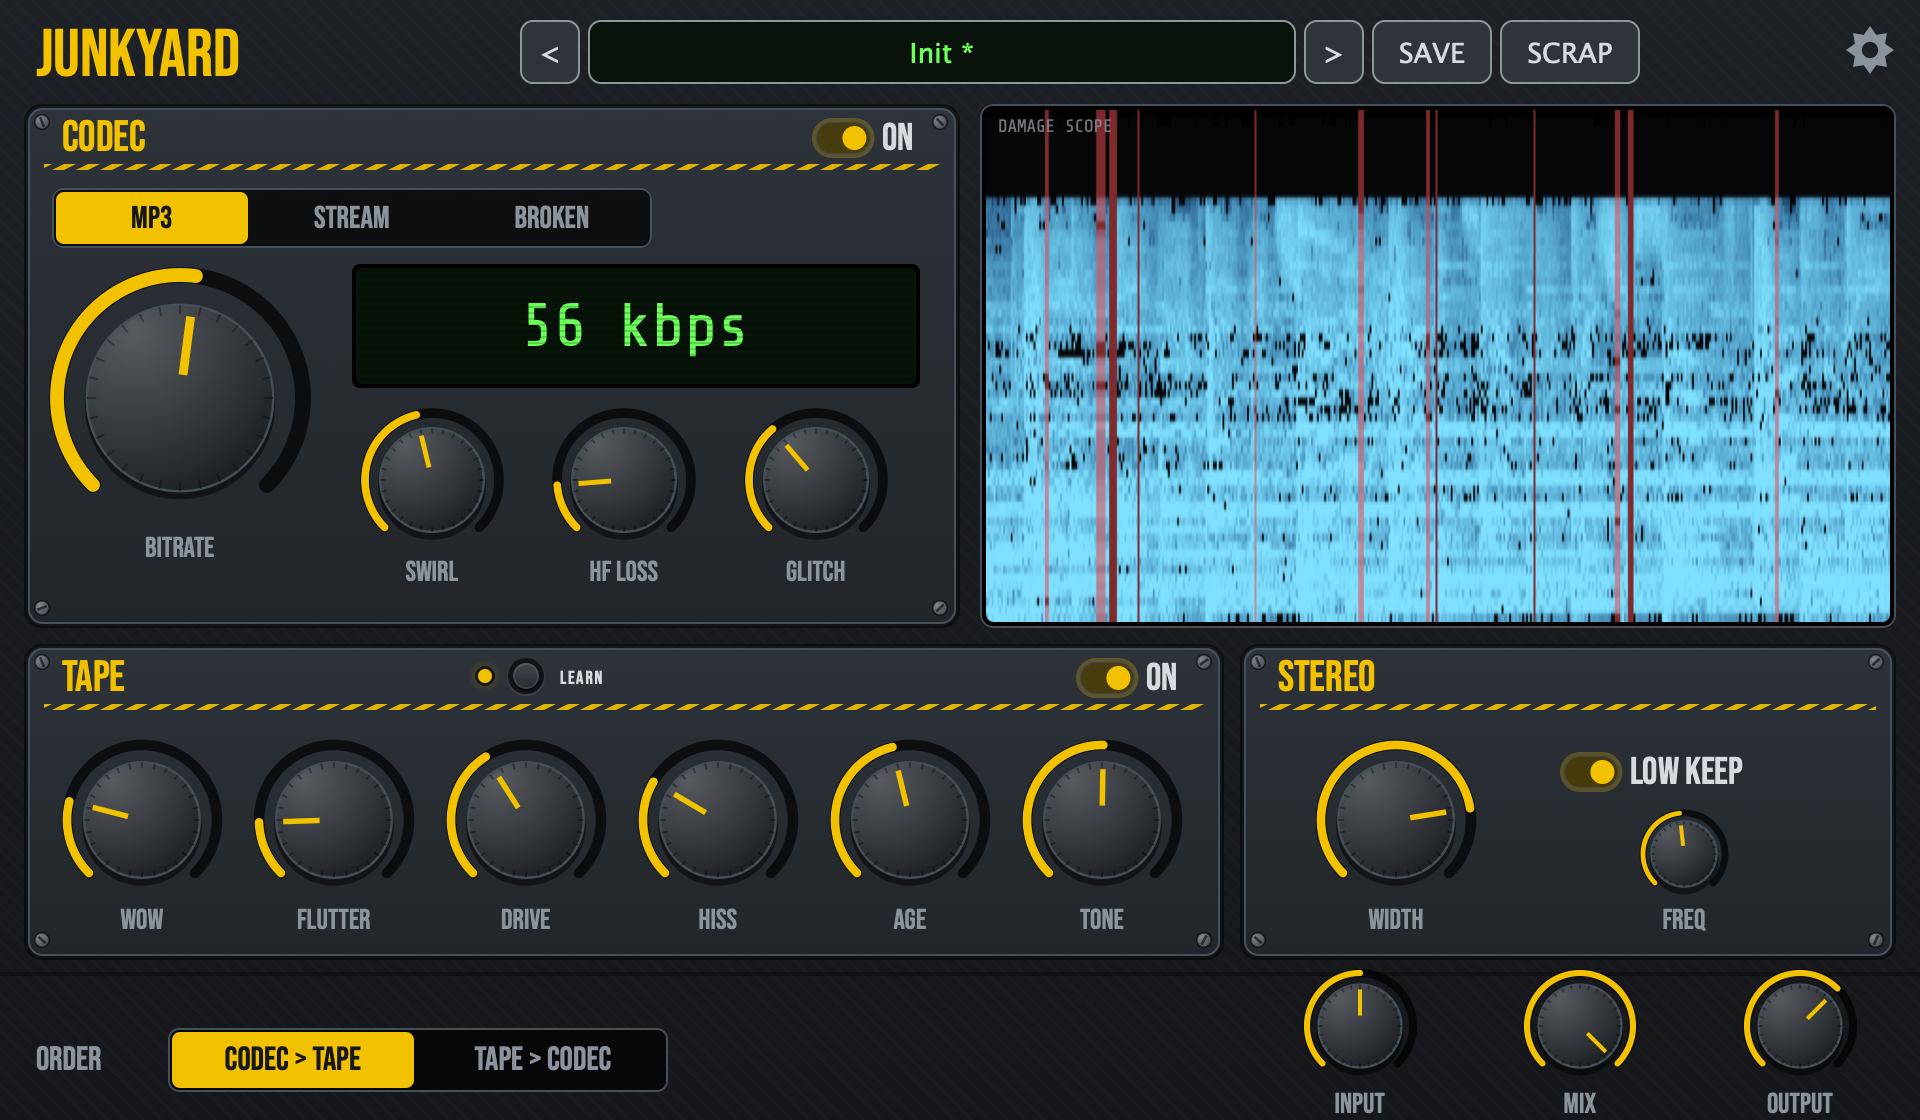
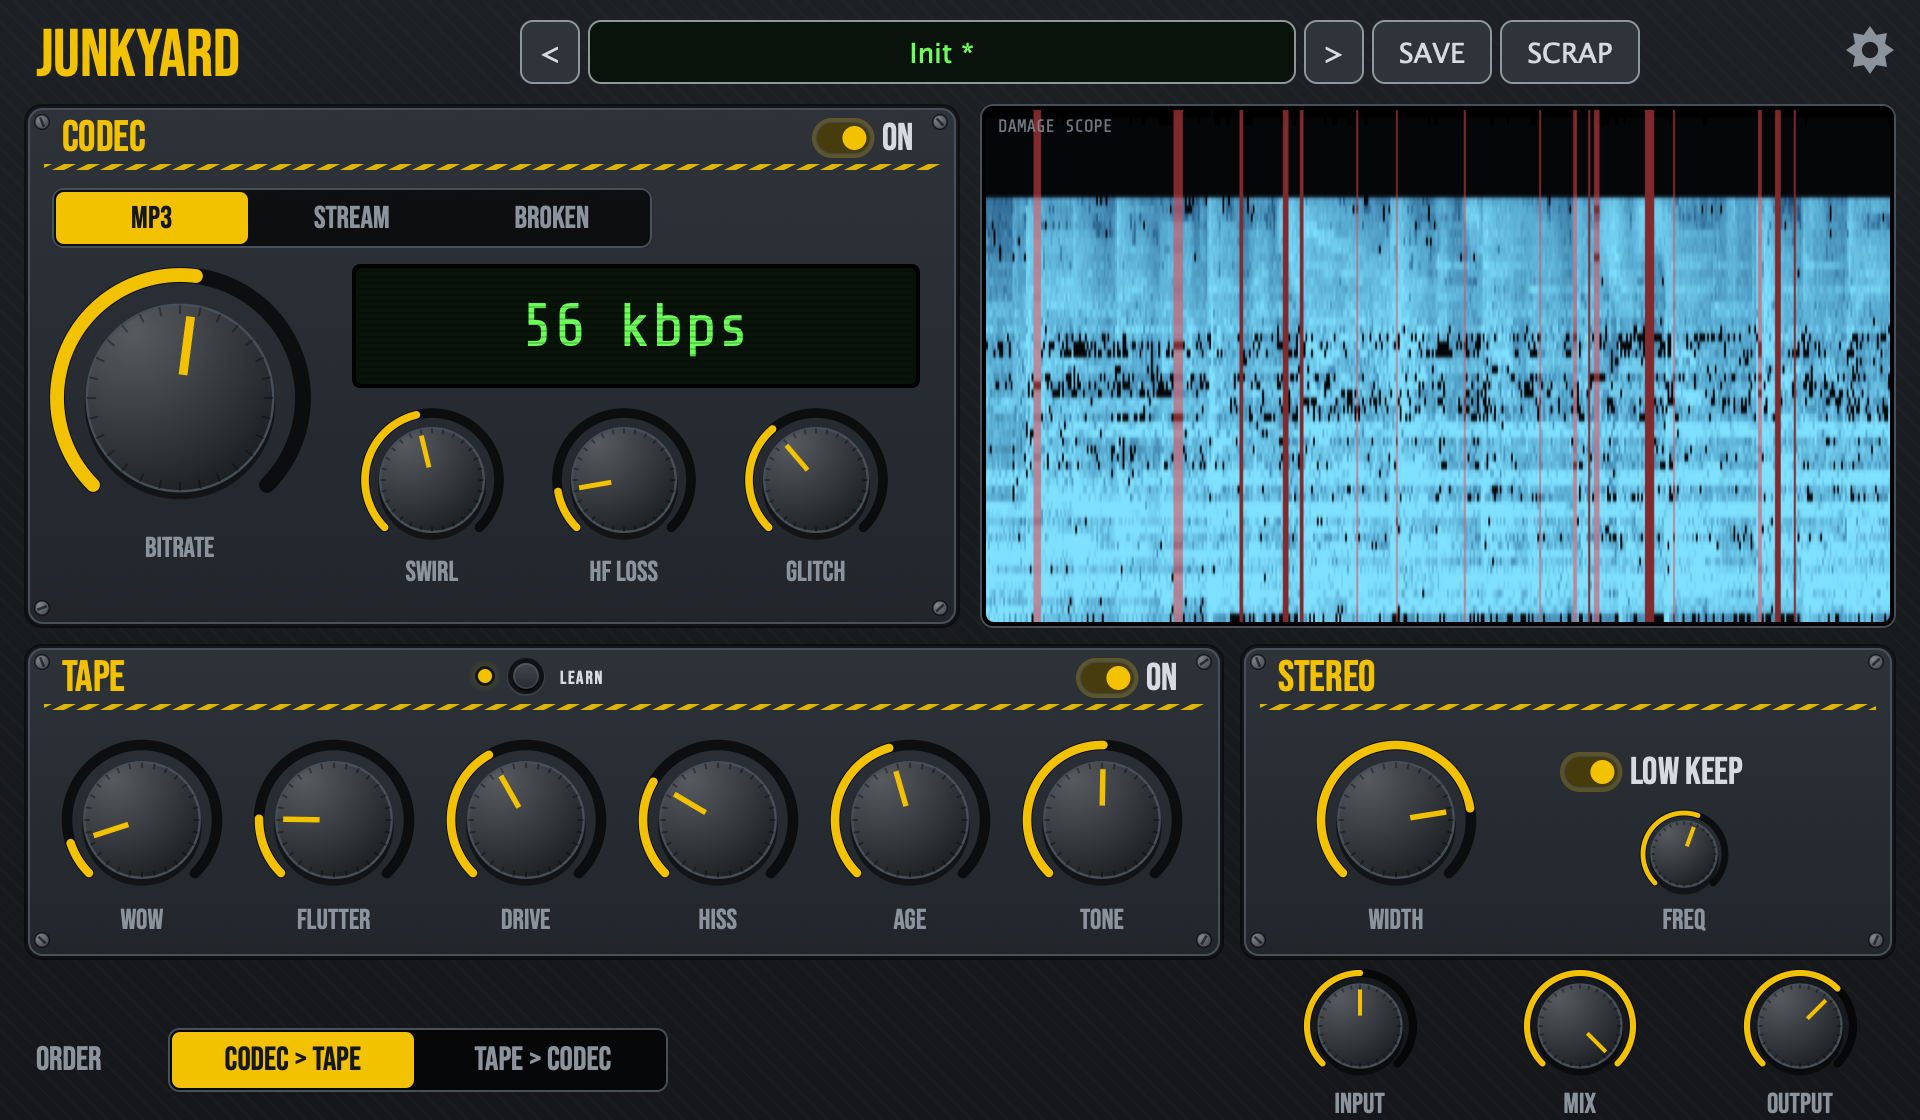
Remove divider line; tidy landing page; new screenshot

diff --git a/docs/index.html b/docs/index.html
@@ -36,10 +36,11 @@
     font-weight: 400; letter-spacing: 2px; line-height: 0.9; margin: 0;
   }
   .tag { font-size: clamp(16px, 2.6vw, 21px); color: var(--text); margin: 18px auto 40px; max-width: 640px; line-height: 1.5; }
-  .buttons { display: flex; gap: 20px; justify-content: center; flex-wrap: wrap; }
+  /* Two equal columns sized to the wider button, so both buttons match. */
+  .buttons { display: inline-grid; grid-template-columns: 1fr 1fr; gap: 20px; }
   .btn {
     display: flex; flex-direction: column; align-items: center; justify-content: center;
-    min-width: 300px; padding: 26px 40px;
+    padding: 26px 40px;
     border-radius: 14px; text-decoration: none;
     font-family: "Bebas Neue", Impact, sans-serif; font-size: 44px; letter-spacing: 1.5px; line-height: 1;
     background: var(--hazard); color: #141414;
@@ -52,7 +53,6 @@
   .btn:active { transform: translateY(8px); box-shadow: 0 0 0 #9c7108, 0 4px 12px rgba(0,0,0,0.45); }
   .btn.other { background: transparent; color: var(--hazard); box-shadow: 0 8px 0 #3a2c08, 0 14px 30px rgba(0,0,0,0.35); }
   .btn.other:hover { box-shadow: 0 6px 0 #3a2c08, 0 10px 24px rgba(0,0,0,0.35); }
-  .reqs { color: var(--dim); font-size: 15px; margin: 26px 0 0; line-height: 1.7; }
   .shot {
     display: block; width: 100%; max-width: 960px; height: auto; margin: 56px auto 0;
     border-radius: 12px; border: 1px solid var(--edge); box-shadow: 0 24px 60px rgba(0,0,0,0.55);
@@ -64,11 +64,11 @@
   .card { background: var(--panel); border: 1px solid var(--edge); border-radius: 12px; padding: 20px 22px; }
   .card h2 { font-family: "Bebas Neue", Impact, sans-serif; font-weight: 400; color: var(--hazard); font-size: 30px; letter-spacing: 1px; margin: 0 0 8px; }
   .card p { margin: 0; line-height: 1.6; font-size: 15px; }
-  code { color: var(--hazard); word-break: break-all; }
   footer { color: var(--dim); font-size: 13px; margin-top: 56px; line-height: 1.8; }
   footer a { color: var(--dim); }
   @media (max-width: 700px) {
-    .btn { min-width: 0; width: 100%; font-size: 38px; }
+    .buttons { display: grid; grid-template-columns: 1fr; }
+    .btn { font-size: 38px; }
     .install { grid-template-columns: 1fr; }
   }
 </style>
@@ -87,7 +87,6 @@
       Download for Windows<small>VST3 · Windows 10/11, 64-bit</small>
     </a>
   </div>
-  <p class="reqs">Version 1.0.0 · Mac: Apple Silicon and Intel · Free</p>
 
   <img class="shot" src="img/junkyard.png" alt="The Junkyard plug-in window" width="960" height="560">
 
@@ -98,7 +97,7 @@
     </div>
     <div class="card">
       <h2>Windows</h2>
-      <p>Unzip, copy the <code>Junkyard.vst3</code> folder into <code>C:\Program Files\Common Files\VST3</code>, then restart your DAW.</p>
+      <p>Unzip, copy the Junkyard.vst3 folder into C:\Program Files\Common Files\VST3, then restart your DAW.</p>
     </div>
   </div>
 

diff --git a/src/PluginEditor.cpp b/src/PluginEditor.cpp
@@ -135,8 +135,6 @@ public:
             g.drawText ("JUNKYARD", 18, 6, 230, 44, juce::Justification::centredLeft, false);   // v1.0: no subtitle; centred on the preset bar row
             g.setColour (textDim); g.setFont (l->display (20.0f));
             g.drawText ("ORDER", 18, 514, 60, 32, juce::Justification::centredLeft, false);
-            // footer plate
-            g.setColour (juce::Colours::black.withAlpha (0.35f)); g.fillRect (0, 486, getWidth(), 2);
             if (JUNKYARD_DEV_BUILD || proc.getShowStamp())
             {
                 g.setColour (textDim.withAlpha (0.8f)); g.setFont (l->mono (10.0f));
